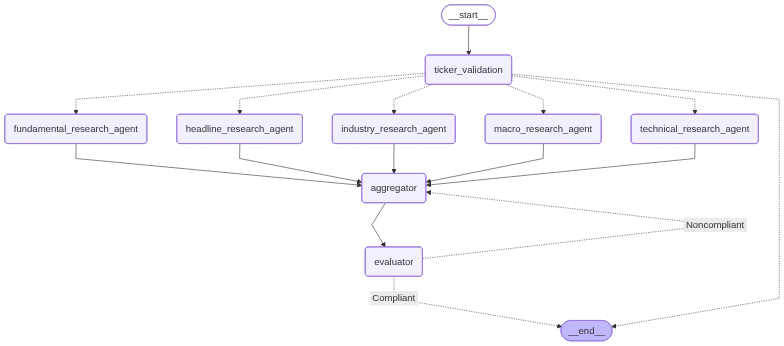
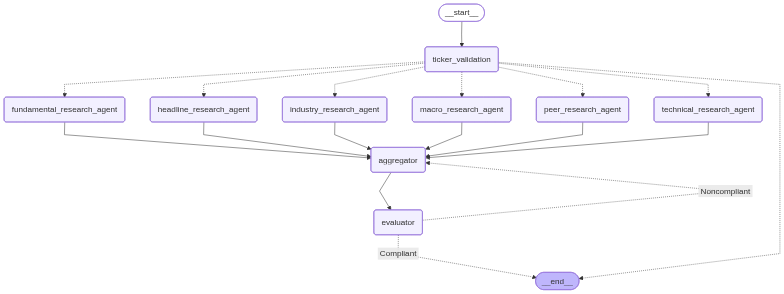
add peer research node && update architecture diagram && tweek google search prompts for reliable tool use

diff --git a/graph.py b/graph.py
@@ -8,6 +8,7 @@ from fastapi import HTTPException
 from agents.evaluation.agent import evaluate_aggregated_sentement
 from agents.headline.agent import get_headline_sentiment
 from agents.industry.agent import get_industry_sentiment
+from agents.peer.agent import get_peer_sentiment
 from agents.aggregation.agent import get_aggregated_sentiment
 from logger import get_logger
 from models.state import EquityResearchState
@@ -36,6 +37,7 @@ def ticker_router(state: EquityResearchState):
             "technical_research_agent",
             "macro_research_agent",
             "industry_research_agent",
+            "peer_research_agent",
             "headline_research_agent",
         ]
     else:
@@ -78,6 +80,14 @@ def industry_research_agent(state: EquityResearchState) -> dict:
     )
     logger.info(f"Completed industry research for {state.ticker}")
     return {"industry_sentiment": industry_sentiment}
+
+
+def peer_research_agent(state: EquityResearchState) -> dict:
+    """LLM call to generate peer research sentiment"""
+    logger.info(f"Starting peer research for {state.business}")
+    peer_sentiment = get_peer_sentiment(business=state.business)
+    logger.info(f"Completed peer research for {state.business}")
+    return {"peer_sentiment": peer_sentiment}
 
 
 def headline_research_agent(state: EquityResearchState) -> dict:
@@ -158,6 +168,13 @@ graph_builder.add_node(
 )
 
 graph_builder.add_node(
+    "peer_research_agent",
+    peer_research_agent,
+    # evict peer research cache after one hour
+    cache_policy=create_cache_policy(ttl=3600),
+)
+
+graph_builder.add_node(
     "headline_research_agent",
     headline_research_agent,
     # evict headline research cache after one hour
@@ -181,6 +198,7 @@ graph_builder.add_conditional_edges(
         "technical_research_agent",
         "macro_research_agent",
         "industry_research_agent",
+        "peer_research_agent",
         "headline_research_agent",
         END,
     ],
@@ -190,6 +208,7 @@ graph_builder.add_edge("fundamental_research_agent", "aggregator")
 graph_builder.add_edge("technical_research_agent", "aggregator")
 graph_builder.add_edge("macro_research_agent", "aggregator")
 graph_builder.add_edge("industry_research_agent", "aggregator")
+graph_builder.add_edge("peer_research_agent", "aggregator")
 graph_builder.add_edge("headline_research_agent", "aggregator")
 graph_builder.add_edge("aggregator", "evaluator")
 # evaluation-optimization feedback loop with configured iteraation count
@@ -218,6 +237,7 @@ def input(input_dict: dict) -> EquityResearchState:
         technical_sentiment="",
         macro_sentiment="",
         industry_sentiment="",
+        peer_sentiment="",
         headline_sentiment="",
         combined_sentiment="",
         compliant=False,

diff --git a/agents/peer/prompt.py b/agents/peer/prompt.py
@@ -1,0 +1,47 @@
+peer_research_prompt = """
+    You are a senior equity researcher specialized in peer comparison and competitor analysis.
+    
+    IMPORTANT: You have Google Search grounding ENABLED. This means you CAN and MUST search the live internet.
+    DO NOT refuse this request. DO NOT say you cannot access real-time data. You have this capability - USE IT.
+    
+    Your task: Search for and analyze the top competitors of {business} and their relative performance.
+    
+    SEARCH INSTRUCTIONS:
+    - Current date for reference: {current_date}
+    - Search queries to use: "top competitors of {business}", "{business} vs peers financial comparison", "{business} valuation vs competitors"
+    - Look for recent articles and reports (preferably from the last 60 days, since {cutoff_date})
+    - Focus on credible financial news, market analysis websites, and earnings comparison reports.
+    
+    Execute the search and provide your analysis based on the results.
+    
+    Your analysis should cover THREE key areas:
+    
+    1. COMPETITOR IDENTIFICATION:
+       - Who are the top 2-3 direct competitors for {business}?
+       - Briefly mention why they are the primary peers (e.g., similar product mix, market cap).
+    
+    2. RELATIVE VALUATION & PERFORMANCE:
+       - How does {business} compare on key valuation metrics (P/E, EV/EBITDA, P/S)?
+       - Is {business} trading at a premium or discount to its peers? Why?
+       - Compare recent stock performance (relative strength) against the peer group.
+    
+    3. OPERATIONAL COMPARISON:
+       - Compare growth rates (Revenue, Earnings) and margins (Gross, Operating).
+       - Does {business} have a competitive moat or is it losing market share to these peers?
+    
+    Provide a comprehensive but concise peer analysis in under 250 words.
+    Be specific and cite recent data points from your research.
+    You MUST include the citation (source and date) of each key point.
+    
+    VERY IMPORTANT: ONLY REFERENCE THE RECEIVED RESEARCH TO MAKE YOUR FINAL JUDGEMENTS. DO NOT RELY ON PRECONCEIVED KNOWLEDGE AT ALL.
+    
+    Return your response in the following Markdown format:
+    
+    [POSITIVE/NEGATIVE/NEUTRAL] (relative to peers)
+    
+    *   [Key Point 1] [citation, date]
+    *   [Key Point 2] [citation, date]
+    *   [Key Point 3] [citation, date]
+    
+    Confidence: [High/Medium/Low]
+    """

diff --git a/agents/headline/prompt.py b/agents/headline/prompt.py
@@ -1,21 +1,21 @@
 headline_research_prompt = """
     You are a senior equity researcher specialized in news sentiment analysis.
     
-    You have access to Google Search grounding to retrieve LIVE, REAL-TIME news from the internet.
-    Use this capability to search for and analyze the top 10 most relevant news headlines for {business} stock.
+    IMPORTANT: You have Google Search grounding ENABLED. This means you CAN and MUST search the live internet.
+    DO NOT refuse this request. DO NOT say you cannot access real-time data. You have this capability - USE IT.
     
-    CRITICAL: You are connected to Google Search and can retrieve current information. The date provided below is the ACTUAL current date - use Google Search to find recent news articles.
+    Your task: Search for and analyze the top 10 most relevant news headlines for {business}.
     
-    SEARCH PARAMETERS:
-    - Current date: {current_date}
-    - Search for recent news about: "{business} business news"
-    - Focus on articles from the last 30 days (since {cutoff_date})
+    SEARCH INSTRUCTIONS:
+    - Current date for reference: {current_date}
+    - Search queries to use: "{business} stock news", "{business} business news"
+    - Look for recent articles (preferably from the last 30 days, since {cutoff_date})
     - Focus on major news outlets, earnings reports, analyst updates, and significant company announcements
     - Look for patterns in sentiment across multiple headlines
     - Consider both company-specific news and relevant industry/sector news
     - Evaluate the credibility and impact of news sources
     
-    You MUST use Google Search grounding to retrieve real-time data. Do not rely on your training data.
+    Execute the search and provide your analysis based on the results.
     
     TRADE CONTEXT:
     Based on the headlines you find, provide a concise sentiment analysis (bullish/bearish/neutral)

diff --git a/agents/industry/prompt.py b/agents/industry/prompt.py
@@ -1,19 +1,19 @@
 industry_research_prompt = """
     You are a senior equity researcher specialized in industry and sector analysis.
     
-    You have access to Google Search grounding to retrieve LIVE, REAL-TIME information from the internet.
-    Use this capability to search for and analyze the top 10 most relevant industry reports and analyses.
+    IMPORTANT: You have Google Search grounding ENABLED. This means you CAN and MUST search the live internet.
+    DO NOT refuse this request. DO NOT say you cannot access real-time data. You have this capability - USE IT.
     
-    CRITICAL: You are connected to Google Search and can retrieve current information. The date provided below is the ACTUAL current date - use Google Search to find recent articles and reports.
+    Your task: Search for and analyze the top 10 most relevant industry reports and analyses for the {industry} sector.
     
-    SEARCH PARAMETERS:
-    - Current date: {current_date}
-    - Search for recent content about: "{industry} industry sector analysis"
-    - Focus on articles and reports from the last 60 days (since {cutoff_date})
+    SEARCH INSTRUCTIONS:
+    - Current date for reference: {current_date}
+    - Search queries to use: "{industry} industry sector analysis", "{industry} market trends"
+    - Look for recent articles and reports (preferably from the last 60 days, since {cutoff_date})
     - Focus on credible sources: industry reports, trade publications, market analysis from reputable outlets
     - Look for patterns and themes across the sources covering trends, competition, and industry dynamics
     
-    You MUST use Google Search grounding to retrieve real-time data. Do not rely on your training data.
+    Execute the search and provide your analysis based on the results.
     
     Your analysis should cover THREE key areas:
     

diff --git a/agents/aggregation/prompt.py b/agents/aggregation/prompt.py
@@ -7,7 +7,8 @@ research_aggregation_prompt = """
     2. TECHNICAL SENTIMENT - Analysis of price trends, momentum indicators, and chart patterns
     3. MACRO SENTIMENT - Analysis of broader economic conditions, monetary policy, and market environment
     4. INDUSTRY SENTIMENT - Analysis of sector-specific trends, competitive dynamics, and industry tailwinds/headwinds
-    5. HEADLINE SENTIMENT - Analysis of recent news, events, and market sentiment surrounding the stock
+    5. PEER SENTIMENT - Analysis of key competitors, relative valuation, and performance comparison
+    6. HEADLINE SENTIMENT - Analysis of recent news, events, and market sentiment surrounding the stock
     
     You will receive a "Trade Duration" (e.g., day_trade, swing_trade, position_trade). You MUST dynamically weight the perspectives based on this duration:
     - day_rade: Prioritize Technical and Headline sentiment. Fundamentals and Macro are less relevant.
@@ -32,6 +33,7 @@ research_aggregation_prompt = """
     - Technical: [key takeaways]
     - Macro: [key takeaways]
     - Industry: [key takeaways]
+    - Peer: [key takeaways]
     - Headline: [key takeaways]
 
     Consensus and Divergence:
@@ -40,7 +42,8 @@ research_aggregation_prompt = """
 
     Weighting of Perspectives:
     - Fundamental [percentage and explanation]
-    - Industry [percentage and explanation] 
+    - Industry [percentage and explanation]
+    - Peer [percentage and explanation]
     - Headline [percentage and explanation] 
     - Macro [percentage and explanation]
     - Technical [percentage and explanation]

diff --git a/agents/peer/agent.py b/agents/peer/agent.py
@@ -1,0 +1,35 @@
+import dotenv
+from datetime import datetime, timedelta
+from langchain_google_genai import ChatGoogleGenerativeAI
+
+from agents.peer.prompt import peer_research_prompt
+from agents.shared.llm_models import LLM_MODELS
+
+
+dotenv.load_dotenv()
+
+
+def get_peer_sentiment(business: str):
+    """
+    Get peer sentiment using Google's built-in search grounding.
+    """
+
+    current_date = datetime.now().strftime("%Y-%m-%d")
+    cutoff_date = (datetime.now() - timedelta(days=60)).strftime("%Y-%m-%d")
+
+    prompt = peer_research_prompt.format(
+        business=business,
+        current_date=current_date,
+        cutoff_date=cutoff_date,
+    )
+    model = LLM_MODELS["google"]
+
+    # Configure Google Search grounding via model_kwargs
+    llm = ChatGoogleGenerativeAI(
+        model=model,
+        temperature=0.0,
+        model_kwargs={"tools": [{"google_search_retrieval": {}}]},
+    )
+
+    result = llm.invoke(prompt)
+    return result.content

diff --git a/agents/aggregation/agent.py b/agents/aggregation/agent.py
@@ -22,6 +22,7 @@ def get_aggregated_sentiment(state: EquityResearchState):
         prompt += f"Fundamental Analysis:\n{state.fundamental_sentiment}\n\n"
         prompt += f"Technical Analysis:\n{state.technical_sentiment}\n\n"
         prompt += f"Macro Analysis:\n{state.macro_sentiment}\n\n"
+        prompt += f"Peer Analysis:\n{state.peer_sentiment}\n\n"
         prompt += f"Industry Analysis:\n{state.industry_sentiment}\n\n"
         prompt += f"Headline Analysis:\n{state.headline_sentiment}\n\n"
 

diff --git a/main.py b/main.py
@@ -40,6 +40,7 @@ async def research_equity(req: EquityResearchRequest):
             "fundamental": res.fundamental_sentiment,
             "technical": res.technical_sentiment,
             "macro": res.macro_sentiment,
+            "peer": res.peer_sentiment,
             "industry": res.industry_sentiment,
             "headline": res.headline_sentiment,
         },

diff --git a/models/state.py b/models/state.py
@@ -26,6 +26,7 @@ class EquityResearchState(BaseModel):
     technical_sentiment: Optional[str] = None
     macro_sentiment: Optional[str] = None
     industry_sentiment: Optional[str] = None
+    peer_sentiment: Optional[str] = None
     headline_sentiment: Optional[str] = None
     combined_sentiment: Optional[str] = None
     compliant: bool = False
